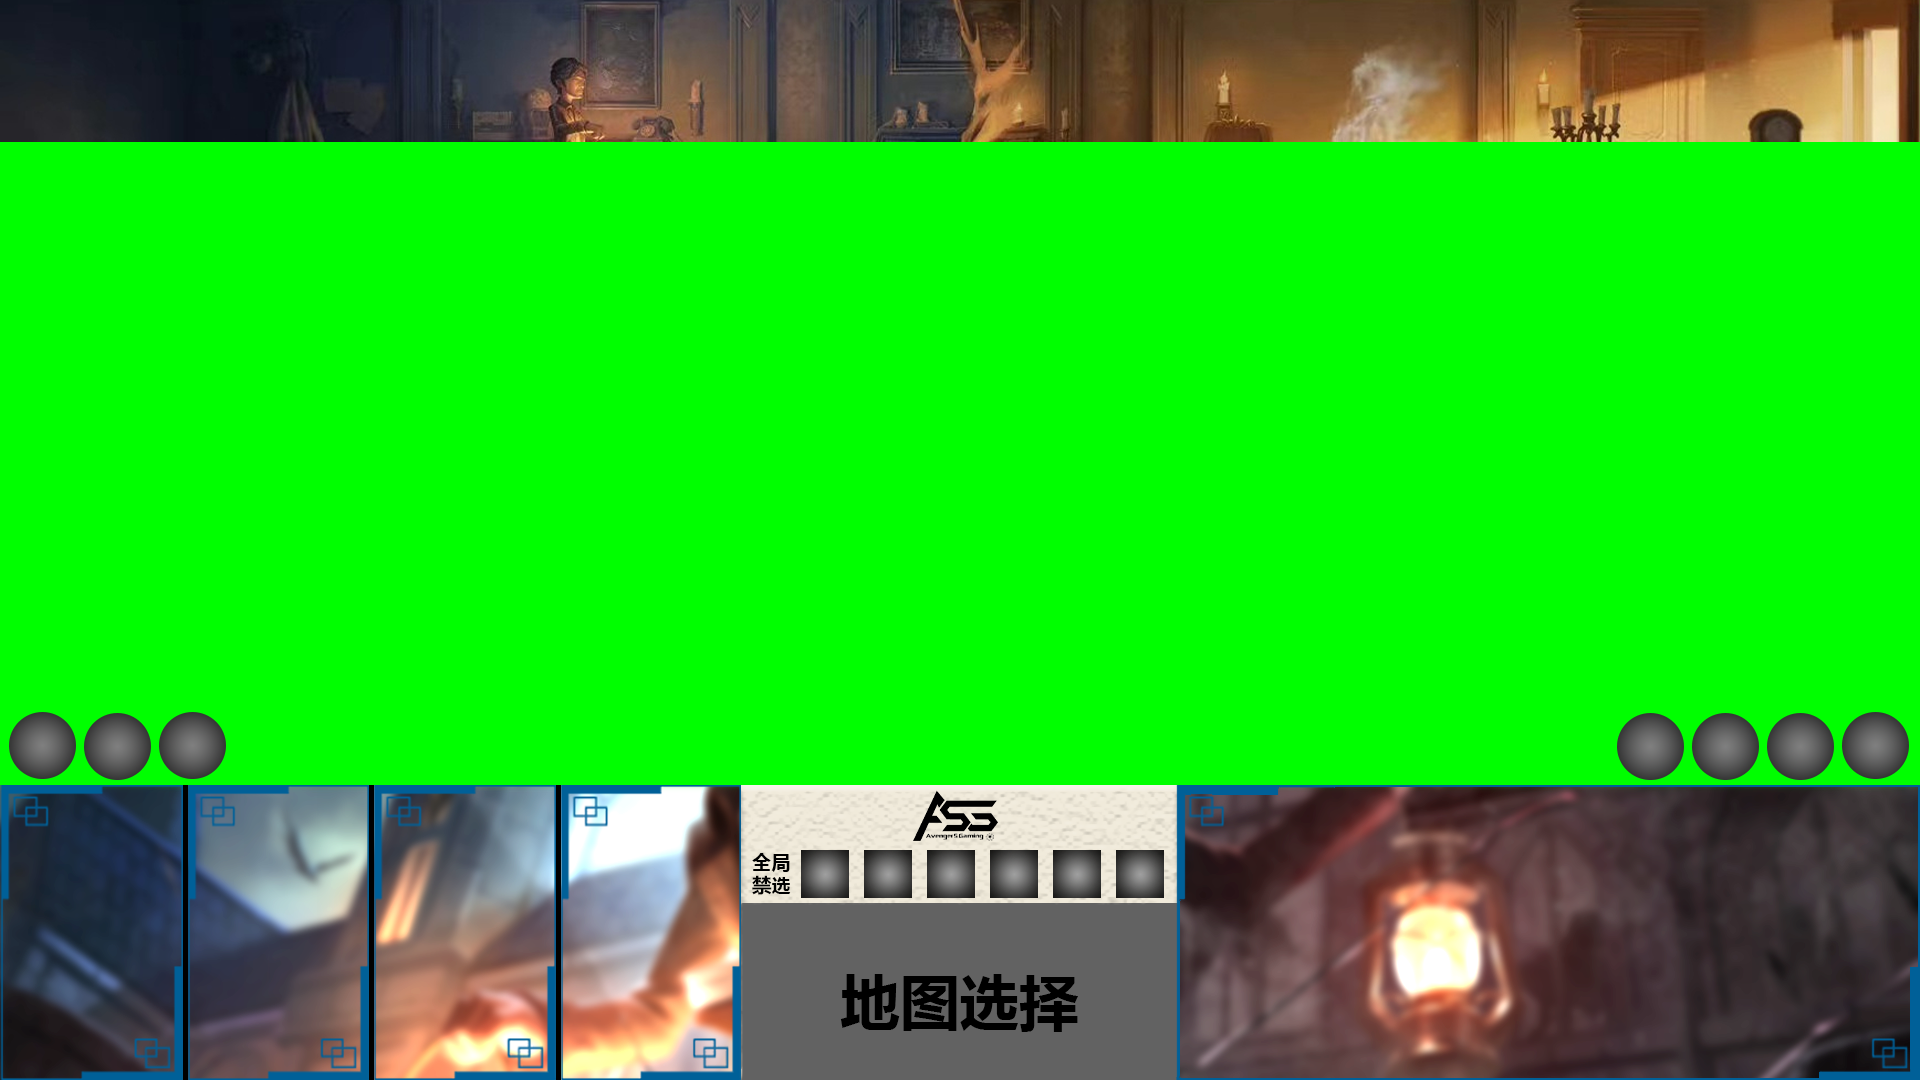
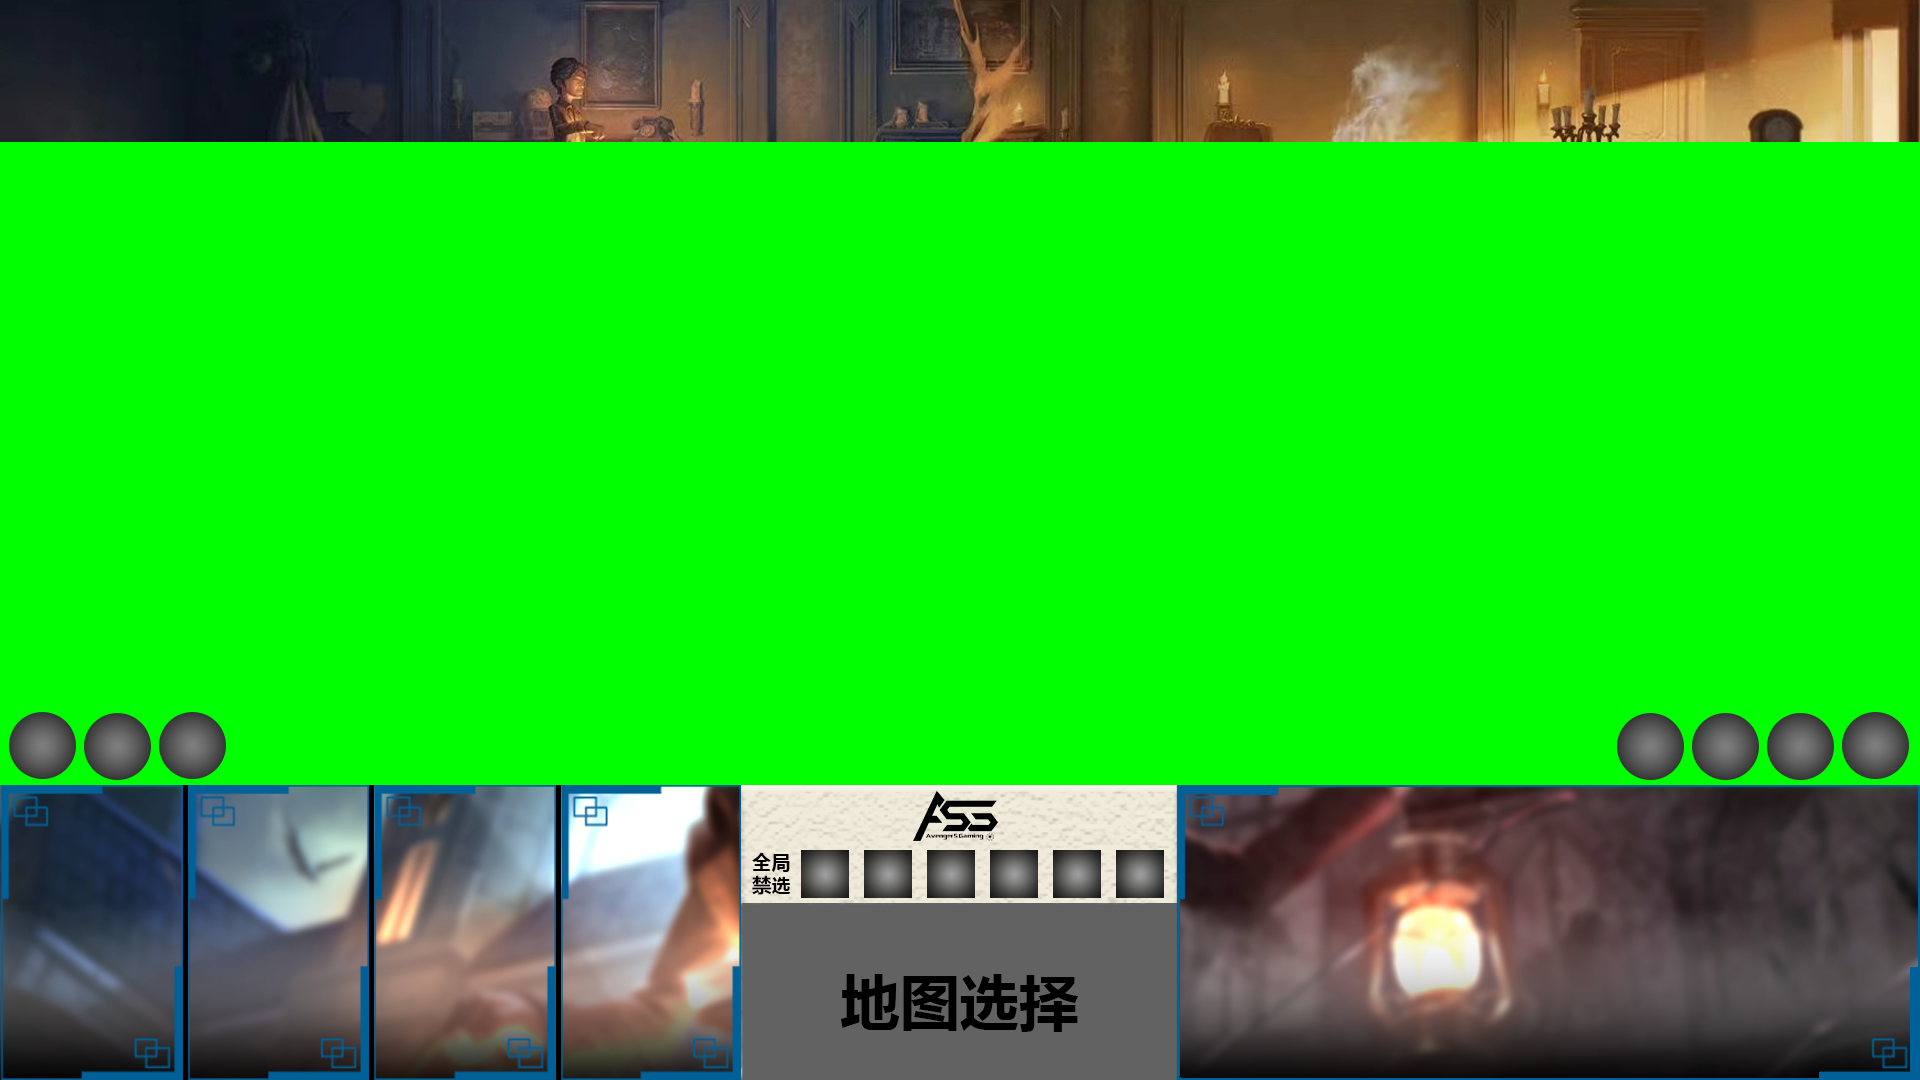
V2.7-ASG 完成对ASG第六届新UI的适配

Changed region(s): [[0.5938, 0.8556, 1.0, 1.0], [0.0, 0.8556, 0.4062, 1.0]]

diff --git a/bp-sys-wpf/Front.xaml b/bp-sys-wpf/Front.xaml
@@ -10,14 +10,16 @@
         <ImageBrush ImageSource="/bp.png"/>
     </Window.Background>
     <Viewbox>
+        <!--比分条-->
         <Grid Height="810" Width="1440">
             <Grid.Background>
                 <ImageBrush/>
             </Grid.Background>
             <Grid.RowDefinitions>
                 <RowDefinition Height="107"/>
-                <RowDefinition Height="520"/>
-                <RowDefinition Height="180"/>
+                <RowDefinition Height="427"/>
+                <RowDefinition Height="55"/>
+                <RowDefinition Height="225"/>
             </Grid.RowDefinitions>
             <Grid Grid.Row="0">
                 <Grid.ColumnDefinitions>
@@ -41,83 +43,90 @@
                 <Label x:Name="Hun_score" Grid.Column="7" Content="W0 D0 L0" VerticalAlignment="Center" FontSize="20" HorizontalAlignment="Left" Foreground="#FFD3BC88" Visibility="Hidden" Height="35" FontWeight="Bold"/>
                 <Image x:Name="Logo_hun" Grid.Column="8" Margin="38,10,47,12"/>
             </Grid>
-            <!--比分条-->
+            <!--Ban位-->
             <Grid Grid.Row="2">
                 <Grid.ColumnDefinitions>
-                    <ColumnDefinition Width="65"/>
-                    <ColumnDefinition Width="118"/>
-                    <ColumnDefinition Width="119"/>
-                    <ColumnDefinition Width="119"/>
-                    <ColumnDefinition Width="118"/>
-                    <ColumnDefinition Width="365"/>
-                    <ColumnDefinition Width="468"/>
-                    <ColumnDefinition Width="69"/>
+                    <ColumnDefinition Width="57"/>
+                    <ColumnDefinition Width="56.5"/>
+                    <ColumnDefinition Width="56.5"/>
+                    <ColumnDefinition Width="1042.5"/>
+                    <ColumnDefinition Width="50.5"/>
+                    <ColumnDefinition Width="56.5"/>
+                    <ColumnDefinition Width="56.5"/>
+                    <ColumnDefinition Width="56.5"/>
+                    <ColumnDefinition/>
                 </Grid.ColumnDefinitions>
-                <Grid Grid.Column="0" Margin="0,0,1,0">
-                    <Grid.RowDefinitions>
-                        <RowDefinition Height="58"/>
-                        <RowDefinition Height="59"/>
-                        <RowDefinition Height="50"/>
-                    </Grid.RowDefinitions>
-                    <Image Grid.Row="0" x:Name="Hun_ban_1" Height="50" Width="50" HorizontalAlignment="Right" VerticalAlignment="Bottom" Margin="0,0,0,4" Source="/sszh宿伞之魂.png"/>
-                    <Image Grid.Row="1" x:Name="Hun_ban_2" Width="50" Height="50" HorizontalAlignment="Left" Margin="14,3,0,6" Source="/sszh宿伞之魂.png"/>
-                    <Image Grid.Row="2" x:Name="Hun_ban_3" Height="50" Width="50" HorizontalAlignment="Right" VerticalAlignment="Top" Source="/sszh宿伞之魂.png"/>
-                </Grid>
-                <Grid Grid.Column="0" Margin="0,0,1,0" Panel.ZIndex="1">
-                    <Grid.RowDefinitions>
-                        <RowDefinition Height="58"/>
-                        <RowDefinition Height="56"/>
-                        <RowDefinition Height="86"/>
-                    </Grid.RowDefinitions>
-                    <Image Grid.Row="0" x:Name="Hun_no_ban_1" Height="50" Width="50" HorizontalAlignment="Right" VerticalAlignment="Bottom" Visibility="Hidden" Margin="0,0,0,4"/>
-                    <Image Grid.Row="1" x:Name="Hun_no_ban_2" Width="50" Height="50" HorizontalAlignment="Left" Visibility="Hidden" Margin="14,3,0,6"/>
-                    <Image Grid.Row="2" x:Name="Hun_no_ban_3" Height="50" Width="50" HorizontalAlignment="Right" VerticalAlignment="Top" Visibility="Hidden" />
-                </Grid>
                 <!--监管Ban-->
-                <Grid Grid.Column="1">
-                    <Image x:Name="Sur_pick_1" Height="166" Panel.ZIndex="-1" Margin="0,0,0,7" Source="/bh病患.png" />
-                    <Image x:Name="SurPicking1" Height="166" Panel.ZIndex="2" Margin="0,0,0,7" Visibility="Hidden"/>
-                    <Label x:Name="Sur_1_team" Foreground="White" HorizontalAlignment="Left" VerticalAlignment="Bottom" Margin="0,0,0,35" FontSize="22"/>
-                    <Label x:Name="Sur_1_player" Foreground="White" HorizontalAlignment="Left" VerticalAlignment="Bottom" Margin="0,0,0,10" FontSize="22"/>
-                </Grid>
+                <Image Grid.Column="0" x:Name="Hun_ban_1" Height="37" Width="37" Margin="0,5,7,0" HorizontalAlignment="Right" VerticalAlignment="Top"/>
+                <Image Grid.Column="1" x:Name="Hun_ban_2" Height="37" Width="37" Margin="0,5,7,0" HorizontalAlignment="Right" VerticalAlignment="Top"/>
+                <Image Grid.Column="2" x:Name="Hun_ban_3" Height="37" Width="37" Margin="0,5,7,0" HorizontalAlignment="Right" VerticalAlignment="Top"/>
+                <Image Grid.Column="0" x:Name="Hun_no_ban_1" Height="50" Width="50" HorizontalAlignment="Right" VerticalAlignment="Top" Visibility="Hidden" Panel.ZIndex="1"/>
+                <Image Grid.Column="1" x:Name="Hun_no_ban_2" Height="50" Width="50" HorizontalAlignment="Right" VerticalAlignment="Top" Visibility="Hidden" Panel.ZIndex="1"/>
+                <Image Grid.Column="2" x:Name="Hun_no_ban_3" Height="50" Width="50" HorizontalAlignment="Right" VerticalAlignment="Top" Visibility="Hidden" Panel.ZIndex="1"/>
+                <!--求生Ban-->
+                <Image Grid.Column="4" x:Name="Sur_ban_1" Height="37" Width="37" Margin="0,5,7,0" HorizontalAlignment="Right" VerticalAlignment="Top"/>
+                <Image Grid.Column="5" x:Name="Sur_ban_2" Height="37" Width="37" Margin="0,5,7,0" HorizontalAlignment="Right" VerticalAlignment="Top"/>
+                <Image Grid.Column="6" x:Name="Sur_ban_3" Height="37" Width="37" Margin="0,5,7,0" HorizontalAlignment="Right" VerticalAlignment="Top"/>
+                <Image Grid.Column="7" x:Name="Sur_ban_4" Height="37" Width="37" Margin="0,5,7,0" HorizontalAlignment="Right" VerticalAlignment="Top"/>
+            </Grid>
+            <!--Pick和全局Ban-->
+            <Grid Grid.Row="3">
+                <Grid.ColumnDefinitions>
+                    <ColumnDefinition Width="137"/>
+                    <ColumnDefinition Width="140"/>
+                    <ColumnDefinition Width="140"/>
+                    <ColumnDefinition Width="140"/>
+                    <ColumnDefinition Width="325.5"/>
+                    <ColumnDefinition />
+                </Grid.ColumnDefinitions>
                 <!--求生Pick1-->
-                <Grid Grid.Column="2">
-                    <Image x:Name="Sur_pick_2" Height="166" Panel.ZIndex="-1" Margin="0,0,0,7" Source="/bh病患.png"/>
-                    <Image x:Name="SurPicking2" Height="166" Panel.ZIndex="2" Margin="0,0,0,7" Visibility="Hidden"/>
-                    <Label x:Name="Sur_2_team" Foreground="White" HorizontalAlignment="Left" VerticalAlignment="Bottom" Margin="0,0,0,35" FontSize="22"/>
-                    <Label x:Name="Sur_2_player" Foreground="White" HorizontalAlignment="Left" VerticalAlignment="Bottom" Margin="0,0,0,10" FontSize="22"/>
+                <Grid Grid.Column="0">
+                    <Image x:Name="Sur_pick_1"  HorizontalAlignment="Right" VerticalAlignment="Bottom" Panel.ZIndex="-1"/>
+                    <Image x:Name="SurPicking1" HorizontalAlignment="Right" VerticalAlignment="Top" Panel.ZIndex="2" Visibility="Hidden"/>
+                    <!--选手ID-->
+                    <Label x:Name="Sur_1_team" Foreground="White" HorizontalAlignment="Left" VerticalAlignment="Bottom" Margin="0,0,0,25" FontSize="22"/>
+                    <Label x:Name="Sur_1_player" Foreground="White" HorizontalAlignment="Left" VerticalAlignment="Bottom" FontSize="22"/>
                 </Grid>
                 <!--求生Pick2-->
-                <Grid Grid.Column="3">
-                    <Image x:Name="Sur_pick_3" Height="166" Panel.ZIndex="-1" Margin="0,0,0,7" Source="/bh病患.png"/>
-                    <Image x:Name="SurPicking3" Height="166" Panel.ZIndex="2" Margin="0,0,0,7" Visibility="Hidden"/>
-                    <Label x:Name="Sur_3_team" Foreground="White" HorizontalAlignment="Left" VerticalAlignment="Bottom" Margin="0,0,0,35" FontSize="22"/>
-                    <Label x:Name="Sur_3_player" Foreground="White" HorizontalAlignment="Left" VerticalAlignment="Bottom" Margin="0,0,0,10" FontSize="22"/>
+                <Grid Grid.Column="1">
+                    <Image x:Name="Sur_pick_2"  HorizontalAlignment="Right" VerticalAlignment="Bottom" Panel.ZIndex="-1"/>
+                    <Image x:Name="SurPicking2" HorizontalAlignment="Right" VerticalAlignment="Top" Panel.ZIndex="2" Visibility="Hidden"/>
+                    <!--选手ID-->
+                    <Label x:Name="Sur_2_team" Foreground="White" HorizontalAlignment="Left" VerticalAlignment="Bottom" Margin="0,0,0,25" FontSize="22"/>
+                    <Label x:Name="Sur_2_player" Foreground="White" HorizontalAlignment="Left" VerticalAlignment="Bottom" FontSize="22"/>
                 </Grid>
                 <!--求生Pick3-->
-                <Grid Grid.Column="4">
-                    <Image x:Name="Sur_pick_4" Height="166" Panel.ZIndex="-1" Margin="0,0,0,7" Source="/bh病患.png"/>
-                    <Image x:Name="SurPicking4" Height="166" Panel.ZIndex="2" Margin="0,0,0,7" Visibility="Hidden"/>
-                    <Label x:Name="Sur_4_team" Foreground="White" HorizontalAlignment="Left" VerticalAlignment="Bottom" Margin="0,0,0,35" FontSize="22"/>
-                    <Label x:Name="Sur_4_player" Foreground="White" HorizontalAlignment="Left" VerticalAlignment="Bottom" Margin="0,0,0,10" FontSize="22"/>
+                <Grid Grid.Column="2">
+                    <Image x:Name="Sur_pick_3"  HorizontalAlignment="Right" VerticalAlignment="Bottom" Panel.ZIndex="-1"/>
+                    <Image x:Name="SurPicking3" HorizontalAlignment="Right" VerticalAlignment="Top" Panel.ZIndex="2" Visibility="Hidden"/>
+                    <!--选手ID-->
+                    <Label x:Name="Sur_3_team" Foreground="White" HorizontalAlignment="Left" VerticalAlignment="Bottom" Margin="0,0,0,25" FontSize="22"/>
+                    <Label x:Name="Sur_3_player" Foreground="White" HorizontalAlignment="Left" VerticalAlignment="Bottom" FontSize="22"/>
                 </Grid>
                 <!--求生Pick4-->
-                <Grid Grid.Column="5">
+                <Grid Grid.Column="3">
+                    <Image x:Name="Sur_pick_4"  HorizontalAlignment="Right" VerticalAlignment="Bottom" Panel.ZIndex="-1"/>
+                    <Image x:Name="SurPicking4" HorizontalAlignment="Right" VerticalAlignment="Top" Panel.ZIndex="2" Visibility="Hidden"/>
+                    <!--选手ID-->
+                    <Label x:Name="Sur_4_team" Foreground="White" HorizontalAlignment="Left" VerticalAlignment="Bottom" Margin="0,0,0,25" FontSize="22"/>
+                    <Label x:Name="Sur_4_player" Foreground="White" HorizontalAlignment="Left" VerticalAlignment="Bottom" FontSize="22"/>
+                </Grid>
+                <!--中间区域-->
+                <Grid Grid.Column="4">
                     <Grid.RowDefinitions>
-                        <RowDefinition Height="125"/>
-                        <RowDefinition Height="75"/>
+                        <RowDefinition Height="89"/>
+                        <RowDefinition/>
                     </Grid.RowDefinitions>
-                    <Image x:Name="Map" Grid.Row="0" Height="115" Width="283" VerticalAlignment="Top" Margin="0,5,0,0" Source="/月亮河公园.png"/>
-                    <!--地图-->
-                    <StackPanel Grid.Row="1" Orientation="Horizontal" HorizontalAlignment="Left" VerticalAlignment="Top" Margin="77,3,0,0" Height="37" Width="252">
-                        <Image x:Name="Hole_ban_1" Height="37" Width="37" Source="/xye幸运儿.png"/>
-                        <Image x:Name="Hole_ban_2" Height="37" Width="37" Margin="6,0,0,0" Source="/xye幸运儿.png"/>
-                        <Image x:Name="Hole_ban_3" Height="37" Width="37" Margin="6,0,0,0" Source="/xye幸运儿.png"/>
-                        <Image x:Name="Hole_ban_4" Height="37" Width="37" Margin="6,0,0,0" Source="/xye幸运儿.png"/>
-                        <Image x:Name="Hole_ban_5" Height="37" Width="37" Margin="6,0,0,0" Source="/xye幸运儿.png"/>
-                        <Image x:Name="Hole_ban_6" Height="37" Width="37" Margin="5,0,0,0" Source="/xye幸运儿.png"/>
+                    <!--全局ban-->
+                    <StackPanel Grid.Row="0" Orientation="Horizontal" HorizontalAlignment="Left" VerticalAlignment="Bottom" Margin="44,0,0,4.5" Height="36" Width="272">
+                        <Image x:Name="Hole_ban_1" Height="36" Width="36"/>
+                        <Image x:Name="Hole_ban_2" Height="36" Width="36" Margin="11,0,0,0"/>
+                        <Image x:Name="Hole_ban_3" Height="36" Width="36" Margin="11,0,0,0"/>
+                        <Image x:Name="Hole_ban_4" Height="36" Width="36" Margin="11.5,0,0,0"/>
+                        <Image x:Name="Hole_ban_5" Height="36" Width="36" Margin="11.4,0,0,0"/>
+                        <Image x:Name="Hole_ban_6" Height="36" Width="36" Margin="11,0,0,0"/>
                     </StackPanel>
-                    <StackPanel Grid.Row="1" Orientation="Horizontal" HorizontalAlignment="Left" VerticalAlignment="Top" Margin="77,3,0,0" Panel.ZIndex="1" Height="37" Width="252">
+                    <StackPanel Grid.Row="0" Orientation="Horizontal" HorizontalAlignment="Left" VerticalAlignment="Bottom" Margin="44,0,0,4.5" Height="36" Width="252" Panel.ZIndex="1">
                         <Image x:Name="Hole_no_ban_1" Height="37" Width="37" Visibility="Hidden"/>
                         <Image x:Name="Hole_no_ban_2" Height="37" Width="37" Margin="6,0,0,0" Visibility="Hidden"/>
                         <Image x:Name="Hole_no_ban_3" Height="37" Width="37" Margin="6,0,0,0" Visibility="Hidden"/>
@@ -125,29 +134,17 @@
                         <Image x:Name="Hole_no_ban_5" Height="37" Width="37" Margin="6,0,0,0" Visibility="Hidden"/>
                         <Image x:Name="Hole_no_ban_6" Height="37" Width="37" Margin="5,0,0,0" Visibility="Hidden"/>
                     </StackPanel>
-                    <!--全局ban-->
+                    <!--地图-->
+                    <Image x:Name="Map" Grid.Row="1" Stretch="UniformToFill" Margin="-1,-1,0,0"/>
                 </Grid>
                 <!--监管Pick-->
-                <Grid Grid.Column="6">
-                    <Image x:Name="Hun_pick" Height="166" Panel.ZIndex="-1" Margin="0,0,0,8" Source="/gjyy歌剧演员.png"/>
-                    <Image x:Name="HunPicking" Width="468" Panel.ZIndex="2" Margin="0,0,0,8" HorizontalAlignment="Center" VerticalAlignment="Center" Visibility="Hidden" />
-                    <Label x:Name="Hun_player" Foreground="White" HorizontalAlignment="Right" VerticalAlignment="Bottom" Margin="0,0,20,10" FontSize="30" />
-                </Grid>
-                <!--求生Ban-->
-                <Grid Grid.Column="7">
-                    <Grid.RowDefinitions>
-                        <RowDefinition Height="43"/>
-                        <RowDefinition Height="43"/>
-                        <RowDefinition Height="42"/>
-                        <RowDefinition Height="52"/>
-                    </Grid.RowDefinitions>
-                    <Image x:Name="Sur_ban_1" Height="36" HorizontalAlignment="Left" VerticalAlignment="Bottom" Margin="8,0,0,3 " Width="36" Grid.Row="0" Source="/xye幸运儿.png"/>
-                    <Image Grid.Row="1" x:Name="Sur_ban_2" Width="36" HorizontalAlignment="Left" Margin="8,4,0,4" Source="/xye幸运儿.png"/>
-                    <Image Grid.Row="2" x:Name="Sur_ban_3" Width="36" HorizontalAlignment="Left" Margin="8,2,0,4" Source="/xye幸运儿.png"/>
-                    <Image Grid.Row="3" x:Name="Sur_ban_4" Height="36" HorizontalAlignment="Left" VerticalAlignment="Top" Margin="8,2,0,0" Width="36" Source="/xye幸运儿.png"/>
+                <Grid Grid.Column="5">
+                    <Image x:Name="Hun_pick" Panel.ZIndex="-1"/>
+                    <Image x:Name="HunPicking" Panel.ZIndex="2" Visibility="Hidden" Margin="0,-2,0,2"/>
+                    <!--选手ID-->
+                    <Label x:Name="Hun_player" Foreground="White" HorizontalAlignment="Right" VerticalAlignment="Bottom" Margin="0,0,35,10" FontSize="30"/>
                 </Grid>
             </Grid>
-            <!--Ban Pick-->
         </Grid>
     </Viewbox>
 </Window>

diff --git a/bp-sys-wpf/AboutThis.xaml b/bp-sys-wpf/AboutThis.xaml
@@ -8,7 +8,7 @@
         Title="关于" Height="210" Width="369" WindowStartupLocation="CenterScreen" ResizeMode="NoResize">
     <Viewbox>
         <Grid Margin="0,0,0,10">
-            <Label Content="本软件由ASG赛事组 导播-零风_PLFJY 制作&#xA;哔哩哔哩 @零风_PLFJY&#xA;如遇任何问题请QQ联系3424127335&#xA;请勿商用，违者必究&#xD;&#xA;软件框架：.Net 8.0" HorizontalAlignment="Center" Height="88" VerticalAlignment="Top" Width="293" Margin="0,10,0,0"/>
+            <Label Content="本软件由ASG赛事组 导播-零风_PLFJY 制作&#xA;哔哩哔哩 @零风_PLFJY&#xA;如遇任何问题请QQ联系3424127335&#xA;此版本为ASG定制版本基于原版V2.6制作&#xD;&#xA;软件框架：.Net 8.0" HorizontalAlignment="Center" Height="88" VerticalAlignment="Top" Width="293" Margin="0,10,0,0"/>
             <Button Content="检查并更新" HorizontalAlignment="Left" Margin="221,103,0,0" VerticalAlignment="Top" Width="68" Height="24" Name="Update" Click="Update_Click"/>
             <ProgressBar HorizontalAlignment="Left" Height="21" Margin="4,127,0,0" VerticalAlignment="Top" Width="161" Name="pbDown" Visibility="Hidden"/>
             <Label HorizontalAlignment="Left" Height="30" Margin="170,122,0,0" VerticalAlignment="Top" Width="41" Name="label1" Visibility="Hidden"/>

diff --git a/bp-sys-wpf/MainWindow.xaml.cs b/bp-sys-wpf/MainWindow.xaml.cs
@@ -166,7 +166,7 @@ namespace bp_sys_wpf
         public async Task<(string latestVersion, string DownloadURL)> FetchLatestReleaseInfoAsync()
         {
             var baseUrl = "https://gitee.com/api/v5";
-            var repository = "plfjy/bp-sys-wpf-update";
+            var repository = "plfjy/bp-sys-wpf-update-ASG";
             var releasesUrl = $"{baseUrl}/repos/{repository}/releases/latest";
             try
             {

diff --git a/bp-sys-wpf/AboutThis.xaml.cs b/bp-sys-wpf/AboutThis.xaml.cs
@@ -28,7 +28,7 @@ namespace bp_sys_wpf
         public async Task<(string latestVersion, string DownloadURL)> FetchLatestReleaseInfoAsync()
         {
             var baseUrl = "https://gitee.com/api/v5";
-            var repository = "plfjy/bp-sys-wpf-update";
+            var repository = "plfjy/bp-sys-wpf-update-ASG";
             var releasesUrl = $"{baseUrl}/repos/{repository}/releases/latest";
             try
             {

diff --git a/bp-sys-wpf/Config.cs b/bp-sys-wpf/Config.cs
@@ -4,7 +4,7 @@ namespace bp_sys_wpf
 {
     public static class Config
     {
-        public static string version { get; set; } = "V2.6";
+        public static string version { get; set; } = "V2.7-ASG";
         public static bool Border { get; set; }
         public static class Front
         {
